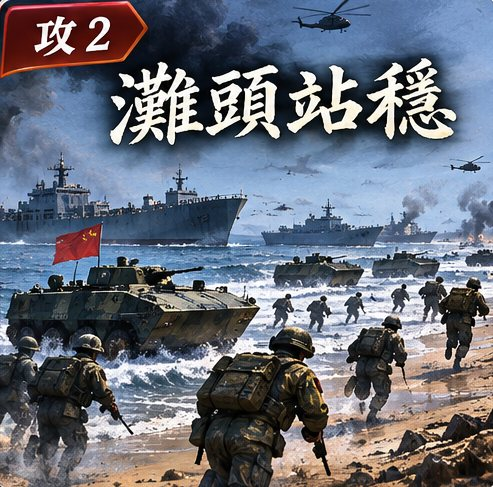
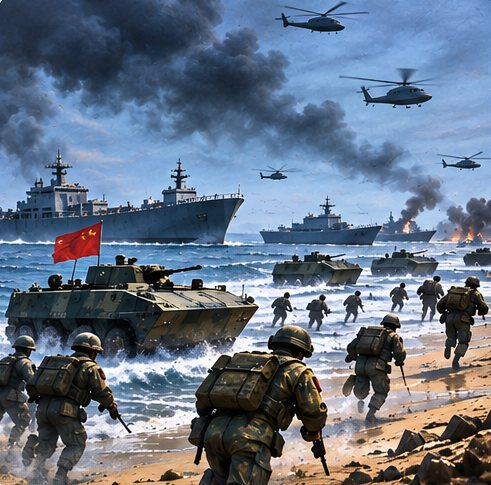
結局繪卡改用不含文字的版本

diff --git a/taiwan-strait-landing/index.html b/taiwan-strait-landing/index.html
@@ -1252,7 +1252,7 @@ function endCaption(k,m){
   return {a1:'首都台北已由攻方控制'+th+'。',a2:'攻方控制 '+m.ports+' 個主要港口，島上兵力 '+m.as+' 步對 '+m.ds+' 步。',a3:'停火時攻方達成 '+m.n+' 項條件，實質控制了關鍵位置。',
     d1:'攻方只達成 '+m.n+' 項條件，軍人傷亡約 '+Math.round(m.milA/1000)+' 千人。',d2:'台灣平民傷亡約 '+Math.round(m.civ/1000)+' 千人'+(m.pd?'、'+m.pd+' 個港口遭自行破壞':'')+'。',d3:'攻方達成 '+m.n+' 項條件；停火後的局勢取決於談判。'}[k];
 }
-function endCardSVG(k){ // 結局繪卡：使用者提供的插圖（圖上已含標題文字）；名稱仍作為替代文字與圖說
+function endCardSVG(k){ // 結局繪卡：使用者提供的插圖（不含文字）；標題與說明由遊戲以各語言顯示
   return '<img class="ecard" src="img/end/'+k+'.jpg" alt="'+ENDCARDS[k].t+'" loading="lazy" decoding="async">';
 }
 function endingBlock(v){

diff --git a/taiwan-strait-landing/img/CREDITS.md b/taiwan-strait-landing/img/CREDITS.md
@@ -22,4 +22,4 @@
 
 ## 結局繪卡（img/end/）
 
-六張結局繪卡為專案提供者提供的 AI 生成插圖（圖上標題為繁體中文），原圖裁切為單張後使用，未做其他修改。
+六張結局繪卡為專案提供者提供的 AI 生成插圖（不含文字，標題由遊戲顯示），原圖裁切為單張後使用，未做其他修改。
